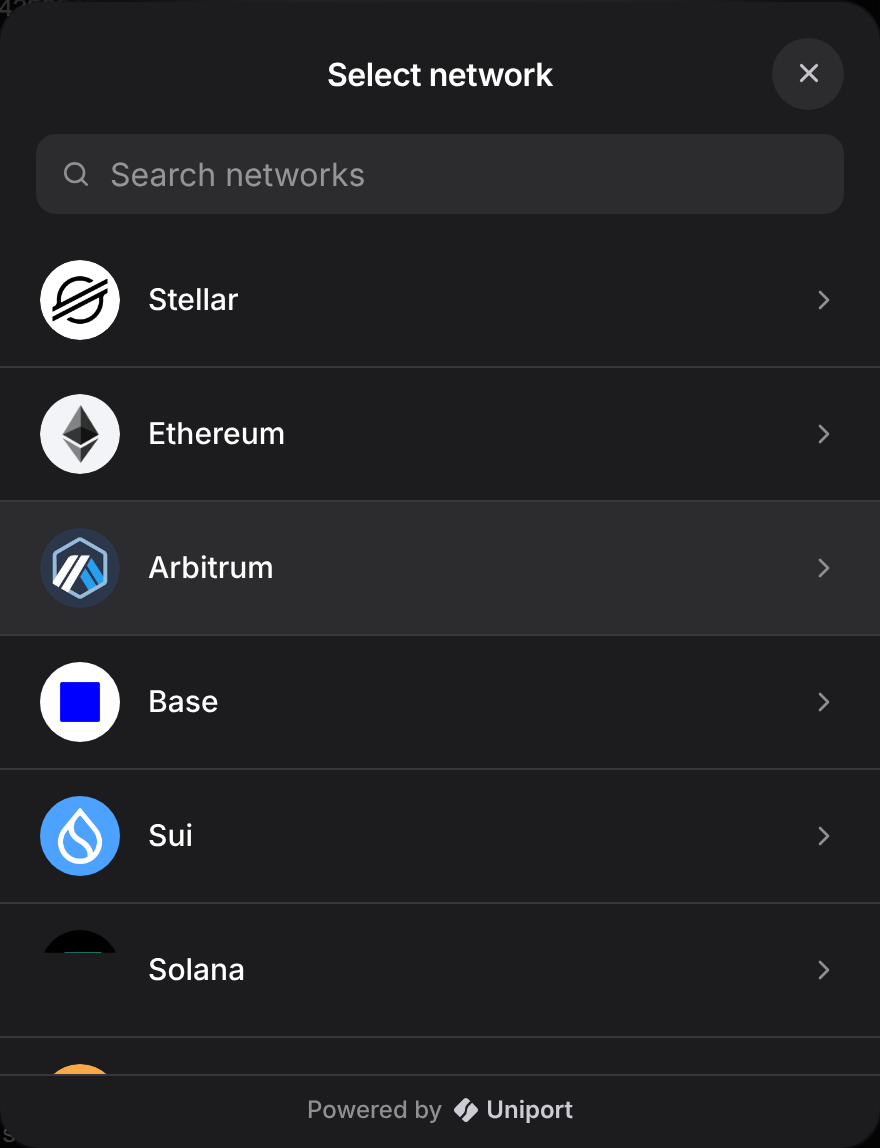
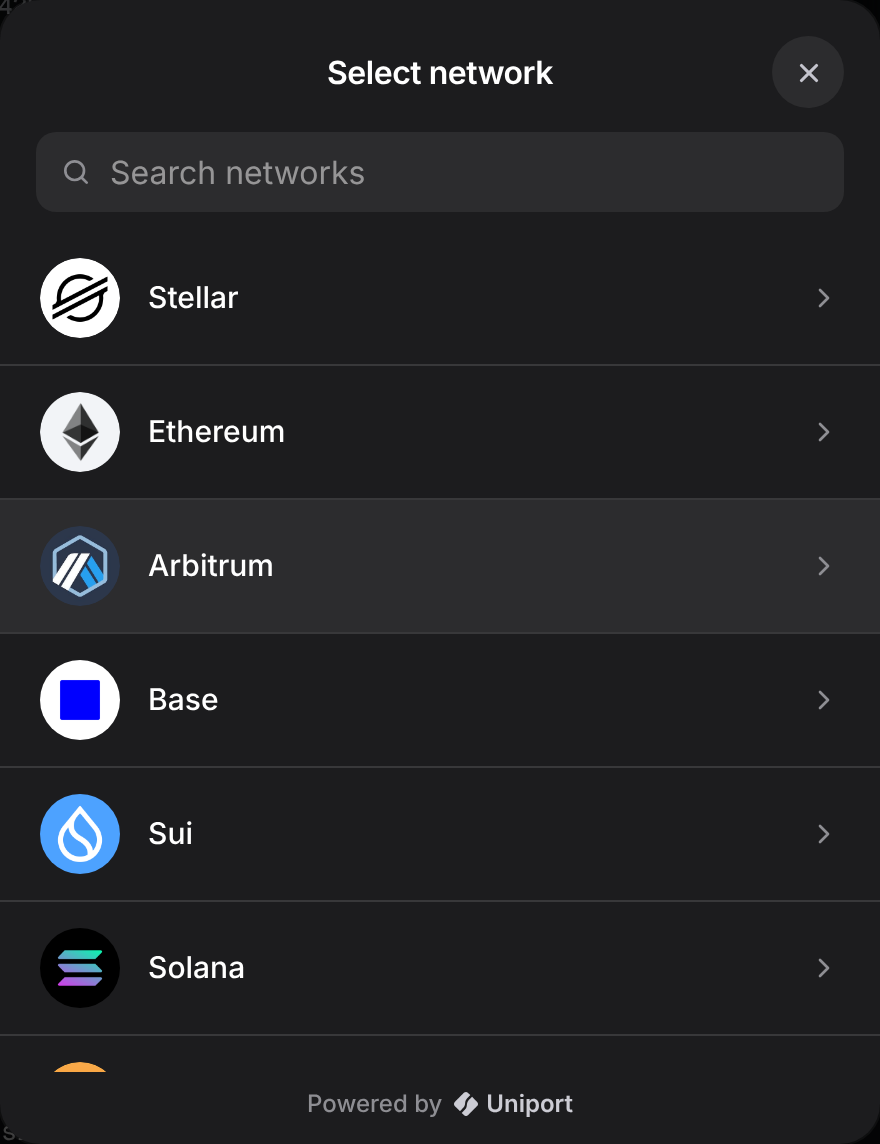
Modal: clear search when a parent closes it; no line above the footer

diff --git a/src/components/UniportModal.tsx b/src/components/UniportModal.tsx
@@ -371,6 +371,15 @@ export function UniportModal({
         if (ok) { setCopiedField(field); setTimeout(() => setCopiedField(null), 2000); }
     }, [payment]);
 
+    // A parent can close the modal by setting open to false without going
+    // through handleClose; the search text must not survive that either.
+    useEffect(() => {
+        if (!open) {
+            setChainQuery('');
+            setTokenQuery('');
+        }
+    }, [open]);
+
     if (!open || !portalRoot) return null;
 
     // Derived state
@@ -1119,8 +1128,7 @@ export function UniportModal({
                     rel="noopener noreferrer"
                     style={{
                         display: 'flex', alignItems: 'center', justifyContent: 'center', gap: '6px',
-                        flexShrink: 0, padding: '11px 16px 13px',
-                        borderTop: `1px solid ${t.border}`,
+                        flexShrink: 0, padding: '10px 16px 14px',
                         fontSize: '12px', fontWeight: 500, lineHeight: 1,
                         color: t.textMuted, textDecoration: 'none',
                     }}
